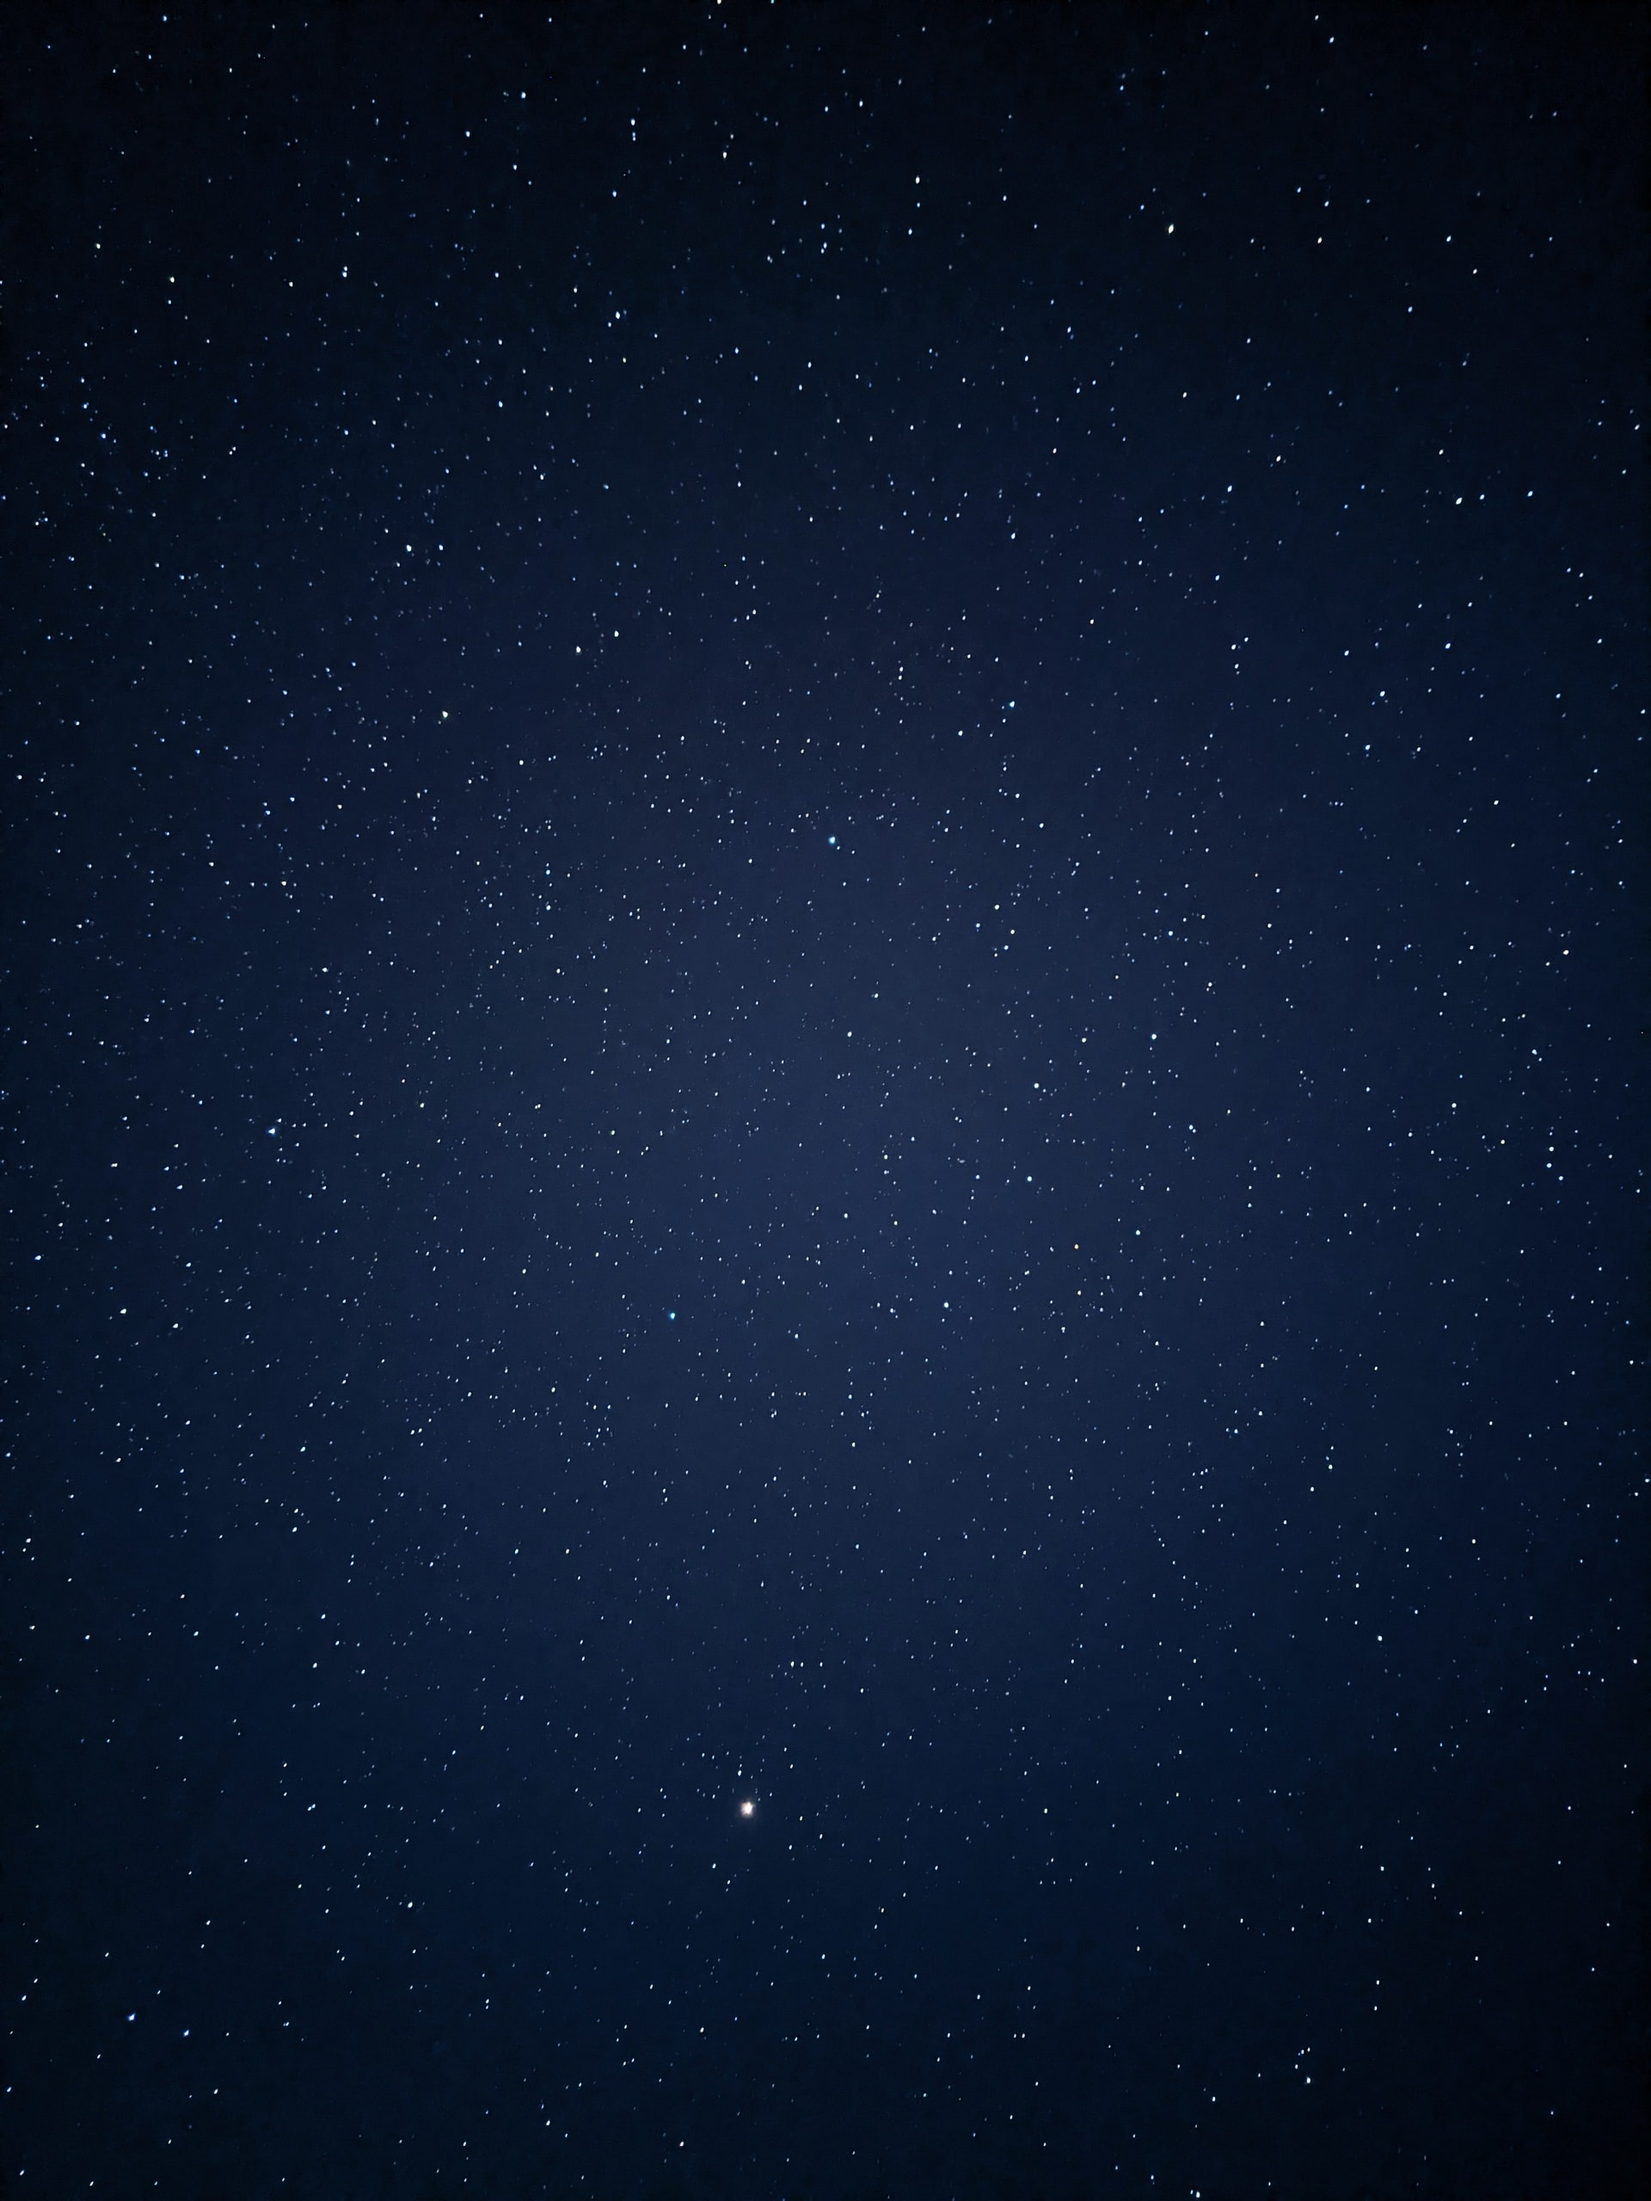
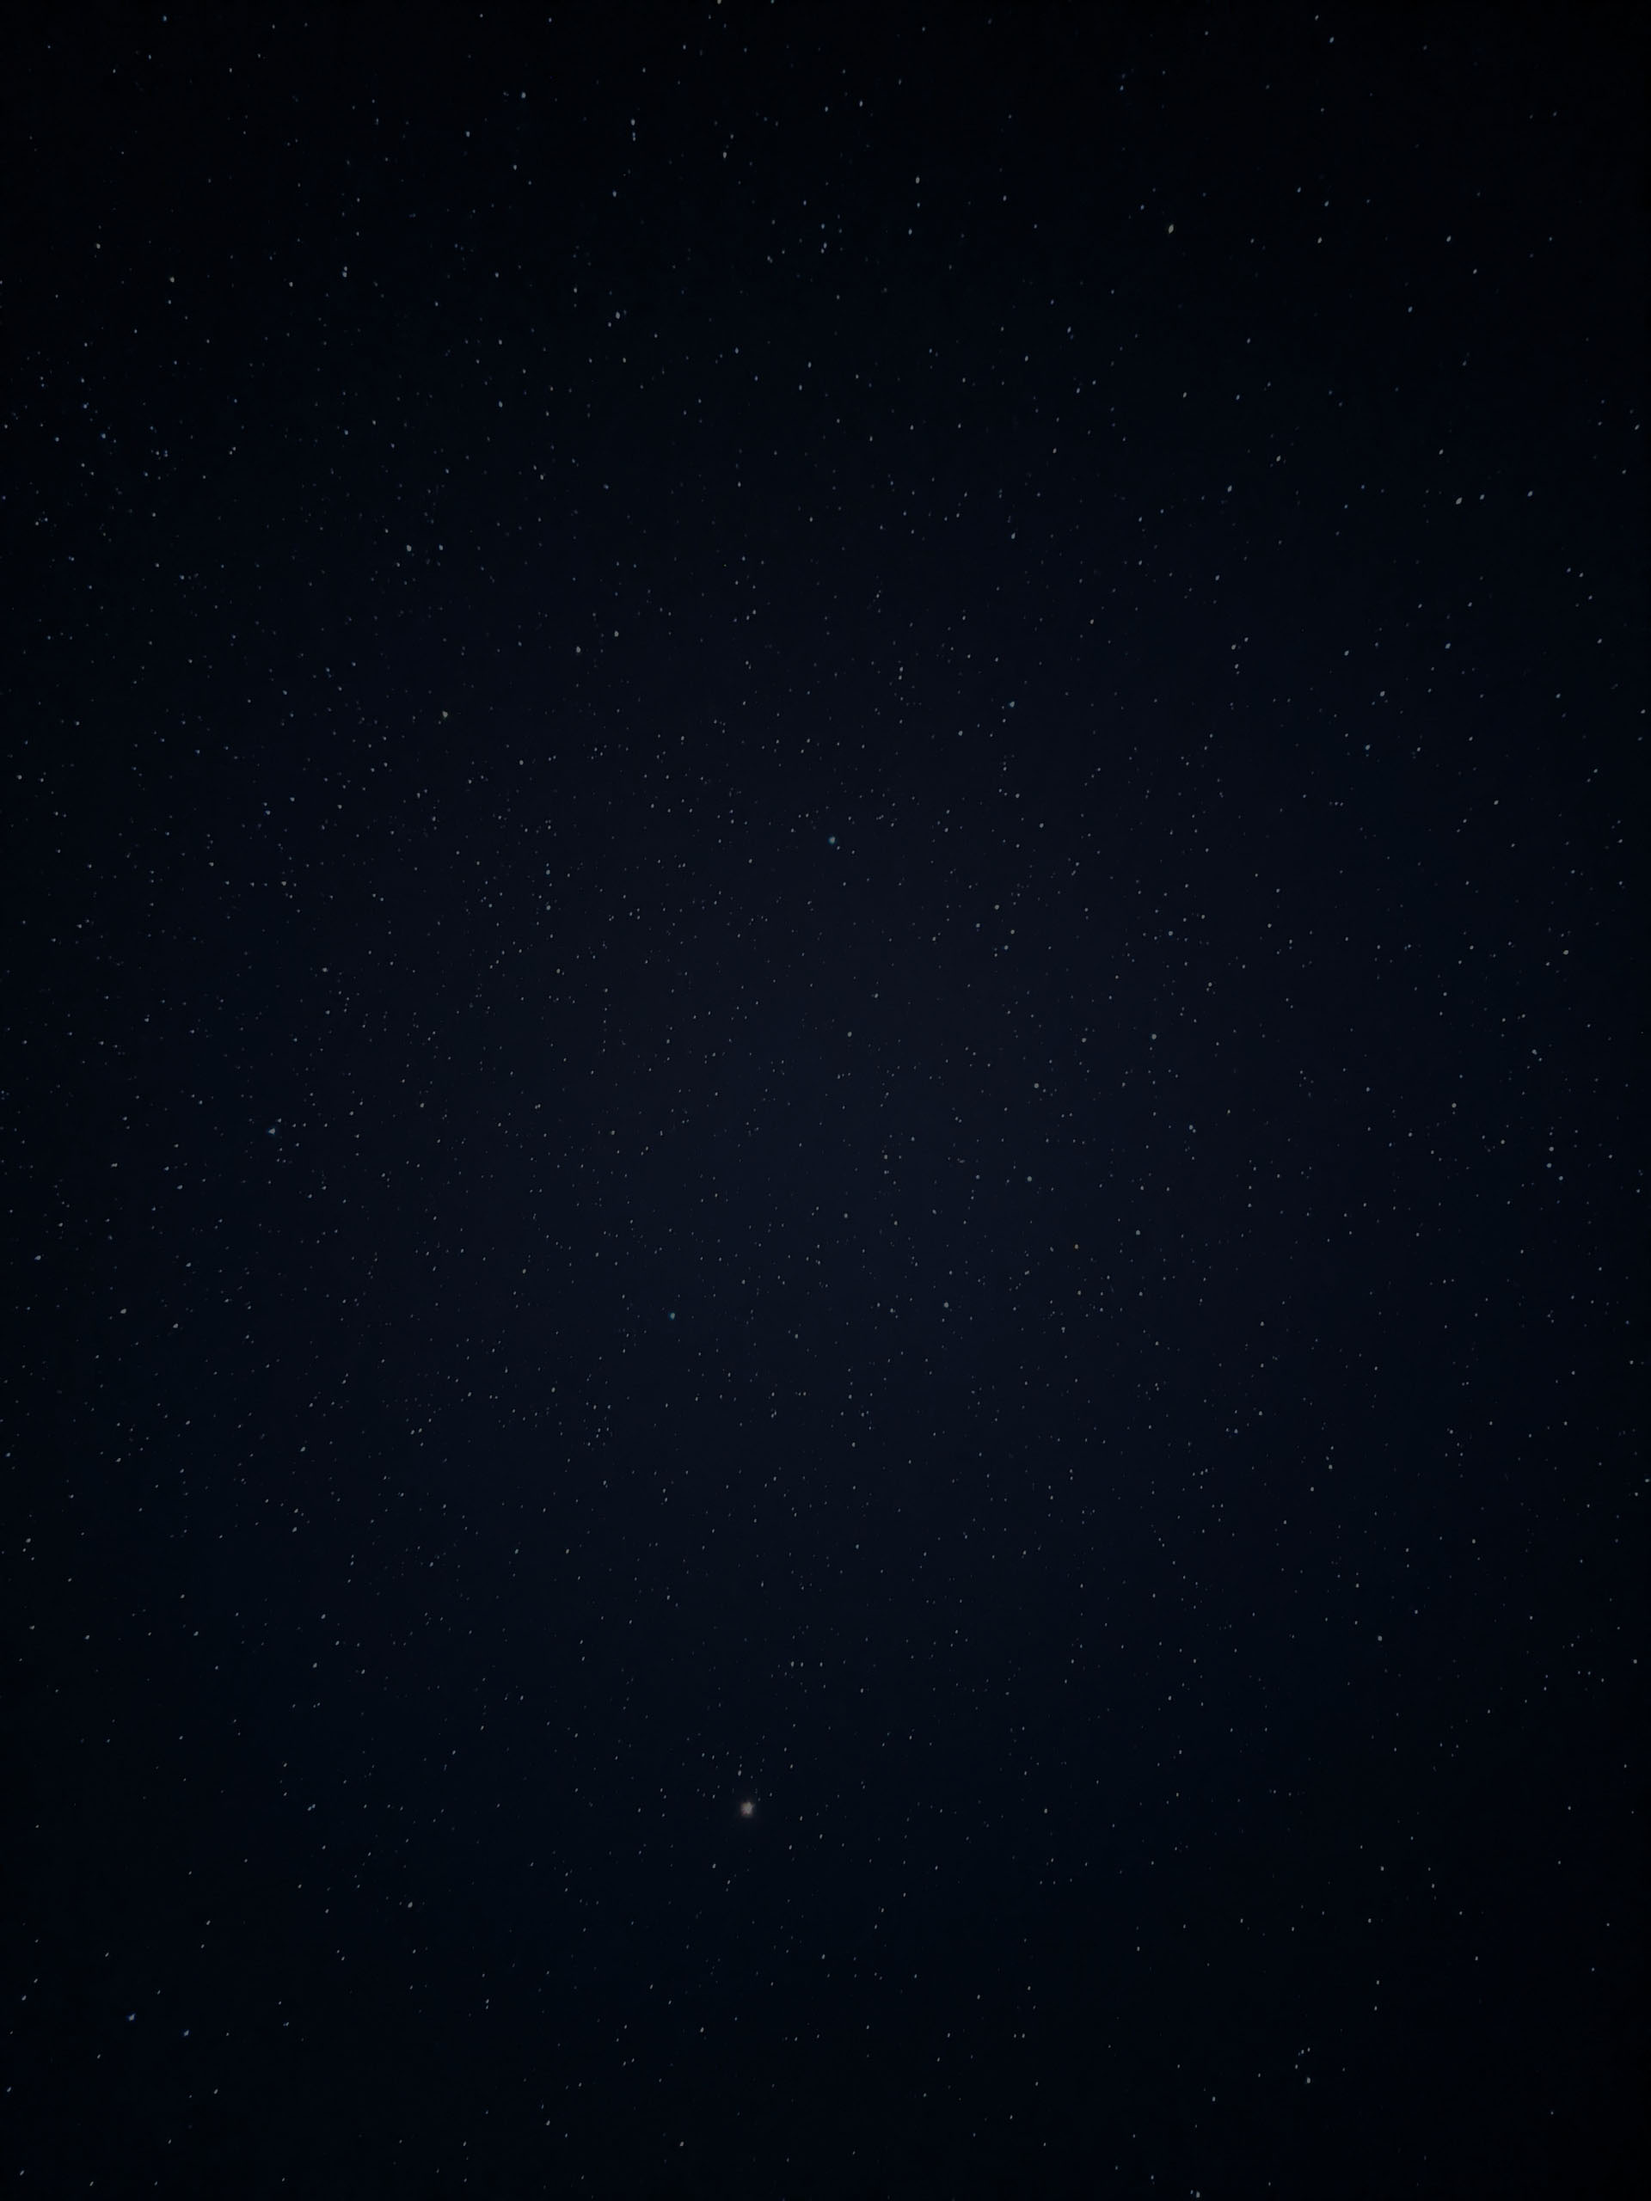
Fixed minor bugs and added overlays to G

diff --git a/src/App.css b/src/App.css
@@ -4,11 +4,11 @@
 
 @layer components {
     #root {
-        @apply min-h-screen;
+        @apply relative min-h-screen;
     }
 
     .test-border {
-        @apply border-0 border-solid border-black;
+        @apply border-0 border-solid border-white;
     }
 
     html {
@@ -17,12 +17,13 @@
 
     body {
         @apply min-h-full bg-no-repeat bg-cover bg-center bg-fixed
-        bg-[url("./assets/images/bg-medium/bg-morning-clear-beach.jpg")] font-mono;
+        bg-[url("./assets/images/bg-medium/bg-evening-clear-2.jpg")] font-mono;
     }
 
     .overlay {
-        @apply absolute inset-0 bg-[hsla(0,0%,85%,0.5)] -z-20 dark:bg-[hsla(0,0%,7%,0.6)] pointer-events-none;
-        /* @apply absolute inset-0 bg-[hsla(0,0%,7%,0.1)] -z-20; */
+        /* @apply absolute inset-0 bg-[hsla(0,0%,85%,0.6)] -z-20 dark:bg-[hsla(0,0%,7%,0.6)] pointer-events-none; */
+        /* @apply absolute inset-0 bg-[rgba(255,255,255,0.7)] -z-20  pointer-events-none; */
+        @apply absolute inset-0 bg-[hsla(0,0%,7%,0.8)] -z-20 pointer-events-none;
     }
 
     .prose-config {
@@ -34,7 +35,7 @@
     }
 
     .main--sub-section {
-        @apply flex flex-col justify-center items-center p-1 lg:px-14 test-border;
+        @apply flex flex-col justify-center items-center mt-8 lg:px-14 lg:m-0 test-border;
     }
 
     .sub-section--other-data {
@@ -90,7 +91,7 @@
     }
 
     ::-webkit-scrollbar-thumb {
-        @apply bg-black rounded-lg dark:bg-white;
+        @apply bg-black/70 rounded-lg dark:bg-white/70;
     }
 
     .error-modal {

diff --git a/src/components/Main/Main.jsx b/src/components/Main/Main.jsx
@@ -51,7 +51,7 @@ function Main({ apikey, isCitySearch, cityCurrentURL, cityForecastURL, resetPref
 
     return (
         <UnitContext.Provider value={unitType}>
-            <main className="flex flex-col justify-between items-center prose-config h-[calc(100vh_-_8rem)] p-2 py-4 lg:h-[calc(100vh_-_5rem)]">
+            <main className="flex flex-col justify-between items-center prose-config min-h-[calc(100vh_-_8rem)] p-2 py-4 lg:min-h-[calc(100vh_-_5rem)]">
                 {!hasErrors ? (
                     coords && (
                         <>

diff --git a/src/components/Main/ForecastContainer/DailyForecastCard.jsx b/src/components/Main/ForecastContainer/DailyForecastCard.jsx
@@ -34,7 +34,7 @@ function DailyForecastCard({
         <article className="flex flex-col justify-center items-center w-full px-5 test-border">
             <div>
                 <p className="m-0 mt-2 text-center">{formatForecastDate(rawDate).day}</p>
-                <p className="m-0 mb-4 text-sm font-semibold text-center opacity-60">
+                <p className="m-0 mb-4 text-sm font-semibold text-center opacity-80">
                     {formatForecastDate(rawDate).time}
                 </p>
             </div>

diff --git a/src/components/Main/MainWeatherData/TemperatureData/TemperatureData.jsx b/src/components/Main/MainWeatherData/TemperatureData/TemperatureData.jsx
@@ -26,7 +26,7 @@ function TemperatureData({ city, rawDate, country, mainTemperature, handleTemper
                     <span className="font-normal">, {country}</span>
                 </p>
 
-                <p className="m-0 p-0 text-sm text-center font-semibold uppercase opacity-70">
+                <p className="m-0 p-0 text-sm text-center font-semibold uppercase opacity-80">
                     {formatForecastDate(rawDate)}
                 </p>
             </div>

diff --git a/src/components/Main/MainWeatherData/WeatherCondition.jsx b/src/components/Main/MainWeatherData/WeatherCondition.jsx
@@ -6,7 +6,7 @@ function WeatherCondition({ weatherCondition }) {
     const icon = `https://s3-us-west-2.amazonaws.com/s.cdpn.io/162656/${weatherCondition["icon"]}.svg`;
 
     return (
-        <article className="main--sub-section ">
+        <article className="main--sub-section">
             <img
                 src={icon}
                 alt="Cloudy"

diff --git a/src/App.jsx b/src/App.jsx
@@ -23,7 +23,7 @@ function App() {
 
     return (
         <React.Fragment>
-            <Overlay />
+            {/* <Overlay /> */}
             <Header apikey={APIKey} handleCityInput={getCity} />
             <Main
                 apikey={APIKey}

diff --git a/index.html b/index.html
@@ -1,5 +1,5 @@
 <!DOCTYPE html>
-<html lang="en" class="darks">
+<html lang="en" class="dark">
     <head>
         <meta charset="UTF-8" />
         <link rel="icon" type="image/svg+xml" href="./src/favicon.svg" />
